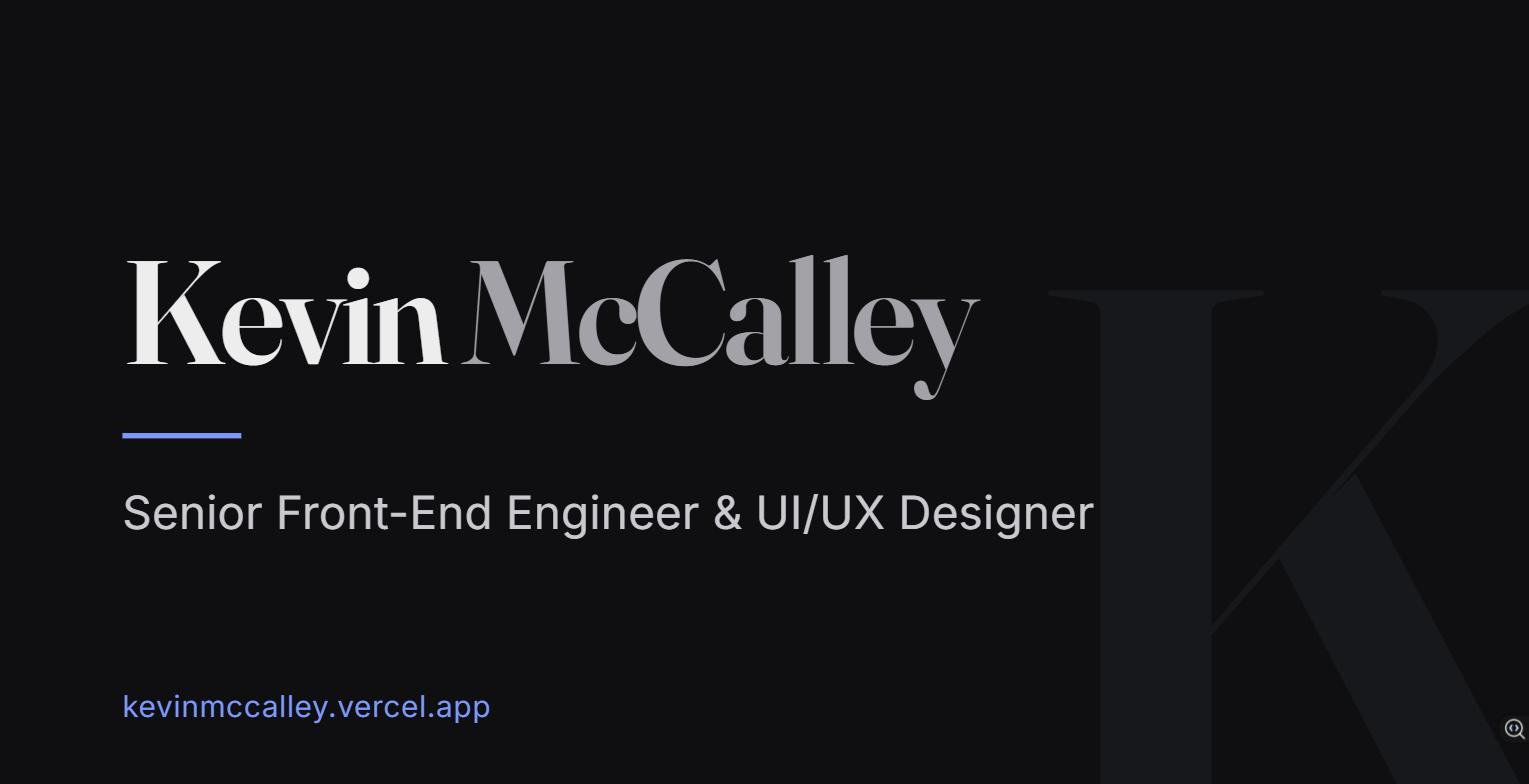
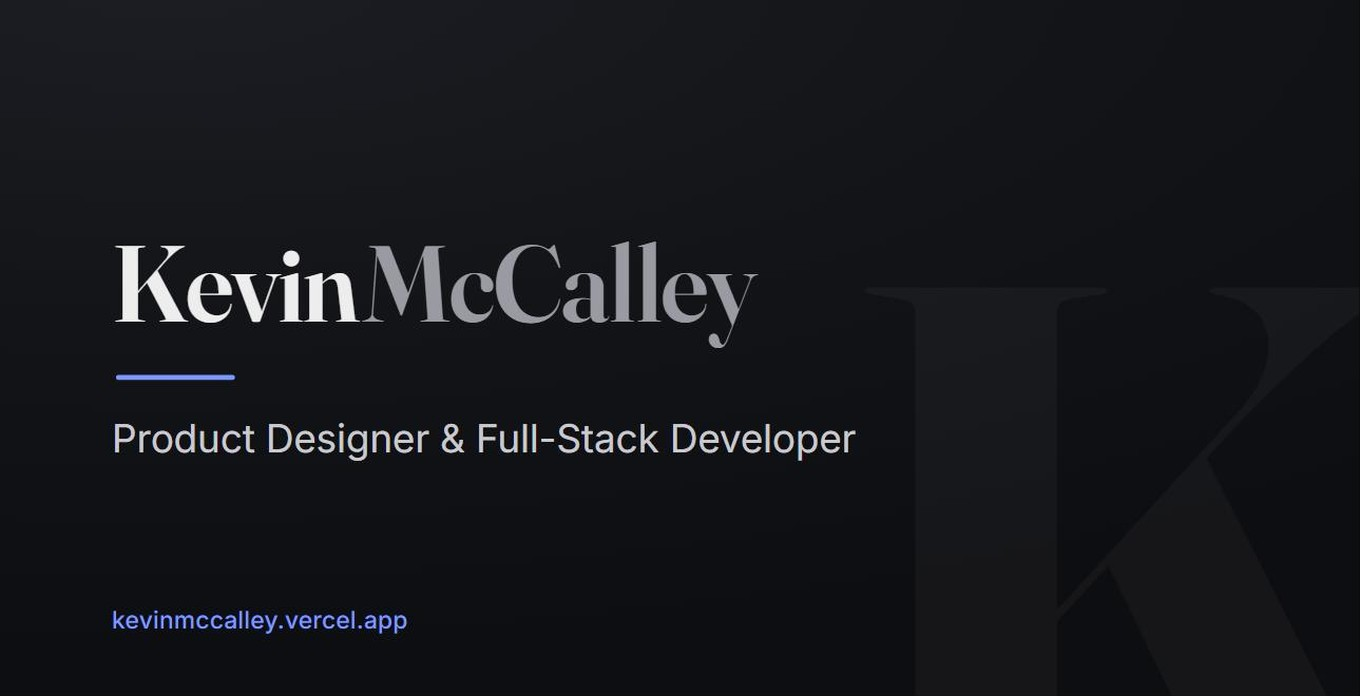
Update current title to Product Designer & Full-Stack Developer
The "Senior Front-End Engineer & UI/UX Designer" line was a previously
held title; the current independent work is best described as product
design plus full-stack delivery (already the role on the Independent
experience entry and in the JSON-LD hasOccupation). Update the Overview
subtitle (also the PDF header), sidebar role, meta/OG/Twitter tags,
JSON-LD jobTitle+description, and the ATS resume headline. Historical
role titles (e.g. 365 Retail Markets) are unchanged. Regenerate og.jpg
with the new title (now 1360x696).

diff --git a/index.html b/index.html
@@ -4,19 +4,19 @@
     <meta charset="UTF-8" />
     <link rel="icon" type="image/svg+xml" href="/favicon.svg" />
     <meta name="viewport" content="width=device-width, initial-scale=1.0" />
-    <meta name="description" content="Kevin McCalley — Senior Front-End Engineer & UI/UX Designer. Accessible React/TypeScript applications, shipped end to end." />
+    <meta name="description" content="Kevin McCalley — Product Designer & Full-Stack Developer. Accessible React/TypeScript applications, shipped end to end." />
 
     <meta property="og:type" content="website" />
     <meta property="og:site_name" content="Kevin McCalley" />
-    <meta property="og:title" content="Kevin McCalley — Senior Front-End Engineer & UI/UX Designer" />
+    <meta property="og:title" content="Kevin McCalley — Product Designer & Full-Stack Developer" />
     <meta property="og:description" content="Accessible React/TypeScript applications, designed and shipped end to end." />
     <meta property="og:url" content="https://kevinmccalley.vercel.app" />
     <meta property="og:image" content="https://kevinmccalley.vercel.app/og.jpg" />
-    <meta property="og:image:width" content="1529" />
-    <meta property="og:image:height" content="784" />
-    <meta property="og:image:alt" content="Kevin McCalley — Senior Front-End Engineer & UI/UX Designer" />
+    <meta property="og:image:width" content="1360" />
+    <meta property="og:image:height" content="696" />
+    <meta property="og:image:alt" content="Kevin McCalley — Product Designer & Full-Stack Developer" />
     <meta name="twitter:card" content="summary_large_image" />
-    <meta name="twitter:title" content="Kevin McCalley — Senior Front-End Engineer & UI/UX Designer" />
+    <meta name="twitter:title" content="Kevin McCalley — Product Designer & Full-Stack Developer" />
     <meta name="twitter:description" content="Accessible React/TypeScript applications, designed and shipped end to end." />
     <meta name="twitter:image" content="https://kevinmccalley.vercel.app/og.jpg" />
 
@@ -29,10 +29,10 @@
         "@context": "https://schema.org",
         "@type": "Person",
         "name": "Kevin McCalley",
-        "jobTitle": "Senior Front-End Engineer & UI/UX Designer",
+        "jobTitle": "Product Designer & Full-Stack Developer",
         "url": "https://kevinmccalley.vercel.app",
         "email": "mailto:kevinmccalley@proton.me",
-        "description": "Senior Front-End Engineer & UI/UX Designer. Accessible React/TypeScript applications, designed and shipped end to end.",
+        "description": "Product Designer & Full-Stack Developer. Accessible React/TypeScript applications, designed and shipped end to end.",
         "sameAs": [
           "https://www.linkedin.com/in/kevin-mccalley",
           "https://github.com/kevinmccalley"

diff --git a/src/ReactResume.jsx b/src/ReactResume.jsx
@@ -561,7 +561,7 @@ export default function ReactResume() {
               <span>Kevin</span>
               <span>McCalley</span>
             </Link>
-            <div className="role">Senior Front-End Engineer &amp; UI/UX Designer</div>
+            <div className="role">Product Designer &amp; Full-Stack Developer</div>
             <div className="where">Remote · United States</div>
           </div>
 

diff --git a/public/kevin-mccalley-resume.md b/public/kevin-mccalley-resume.md
@@ -1,6 +1,6 @@
 # Kevin McCalley
 
-Senior Front-End Engineer & UI/UX Designer
+Product Designer & Full-Stack Developer
 
 - Location: Remote (United States)
 - Email: kevinmccalley@proton.me
